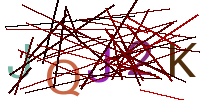
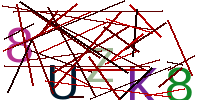
ФИНАЛ 2.3.3.3.3.3

diff --git a/templates/users_profile.html b/templates/users_profile.html
@@ -69,8 +69,9 @@
     <div class="buttons"><button type="button" class="back-button"><---</button><h1>Профиль</h1></div>
 
     <div class="buttons">
-
-        <img src="static/image/марс.png" class="my-image" alt="..." height="10" width="50" style="border: 3px solid black;">
+        {%if href %}
+        <img src="/{{href}}" class="my-image" alt="..." height="10" width="50" style="border: 3px solid black;">
+      {%endif%}
     </div>
     <div class="profile-item">
         <label for="nick">Никнейм:</label>
@@ -79,7 +80,17 @@
     <h2>Посты пользователя:</h2>
     <div class="like-container">
         {% for post in user_posts %}
-            <a class="lenin" href="/{{ post.href }}" target="_blank">{{ post.title }}</a>
+            <div class="container-post">
+      {% if post.photos_paths %}
+        <div class="image-container">
+            <img src="/{{post.first_photopath}}" alt="картинка хыхыхы">
+        </div>
+      {% endif %}
+    <div class="postcontent">
+        <a href="/{{post.href}}" class="post-title">{{post.title}}</a>
+        <p>{{post.short}}</p>
+    </div>
+      </div>
         {% endfor %}
     </div>
 </div>

diff --git a/static/javascript/captcha.js b/static/javascript/captcha.js
@@ -1,7 +1,7 @@
 function new_captcha() {
     const characters = 'QWERTYUPLKJHGFDSAZXCVBN23456789';
     let generatedCode = '';
-    const url = "https://heartbreaking-entertaining-oviraptor.glitch.me/change_captcha_code";
+    const url = "http://127.0.0.1:8080/change_captcha_code";
 
     for (let index = 0; index < 5; index++) {
         generatedCode += characters.charAt(Math.floor(Math.random() * characters.length));

diff --git a/static/javascript/post.js b/static/javascript/post.js
@@ -1,5 +1,5 @@
 function like(amount, user_id, post_id, liked) {
-    const url = "https://heartbreaking-entertaining-oviraptor.glitch.me/like";
+    const url = "http://127.0.0.1:8080/like";
     const like_label = document.getElementById('like_label');
     const like_button = document.getElementById('like-button');
     var a = parseInt(like_label.textContent.slice(-1));

diff --git a/server.py b/server.py
@@ -1,6 +1,5 @@
 import shutil
 
-
 from flask import Flask, request, render_template, redirect, jsonify, make_response, session
 from data.functions import *
 from data.posts_api import PostResourse, PostListResource
@@ -9,7 +8,6 @@ from flask_login import LoginManager, login_user, logout_user, login_required, c
 from data.forms import *
 from flask_restful import reqparse, abort, Api, Resource
 from data.comment import Comment
-
 
 from werkzeug.utils import secure_filename
 import json
@@ -35,7 +33,7 @@ def load_user(user_id):
     return db_sess.query(User).get(user_id)
 
 
-@app.route('/testt', methods =['GET','POST'])
+@app.route('/testt', methods=['GET', 'POST'])
 def testtt():
     if request.method == 'POST':
         sort_by = request.cookies.get("sort_by", 0)
@@ -79,6 +77,7 @@ def index():
                                             tags=session.query(Tag).all(), x=request.cookies.get('sort_by'), user=user))
     return res
 
+
 @app.route('/search/<text>', methods=['GET', 'POST'])
 def search(text):
     s_form = SearchPostForm()
@@ -100,16 +99,16 @@ def search(text):
 
 @app.route("/edit_profile", methods=["get", "post"])
 def edit_profile():
+    print(current_user.id)
     form = EditForm()
     db_sess = db_session.create_session()
     cu = db_sess.query(User).filter(User.id == current_user.id).first()
     if form.validate_on_submit():
         email = form.email.data
         name = form.name.data
+        print(name)
         if not check_pochta(email):
-            return render_template('register.html', form=form, message='Неверный формат почты!')
-        if db_sess.query(User).filter(User.email == email).first():
-            return render_template('register.html', form=form, message='Такой пользователь уже есть!')
+            return render_template('edit.html', form=form, message='Неверный формат почты!')
         cu.name = name
         cu.email = email
         db_sess.commit()
@@ -119,6 +118,7 @@ def edit_profile():
     db_sess.close()
     return render_template('edit.html', form=form)
 
+
 @app.route('/register', methods=['GET', 'POST'])
 def register():
     from random import choice
@@ -126,6 +126,9 @@ def register():
     db_sess = db_session.create_session()
     code = session.get('captcha_code', 0)
     print(not code)
+    a = db_sess.query(User).all()
+    for i in a:
+        print(i.name, i.email)
     if not code:
         session['captcha_code'] = ''.join([choice('QERTYUPLKJHGFDSAZXCVBN23456789') for i in range(5)])
         code = session.get('captcha_code', 0)
@@ -154,7 +157,8 @@ def register():
                     file.save(os.path.join(app.config['UPLOAD_FOLDER'] + '/profile_pictures', photo))
                     user.photo_path = f'static/image/profile_pictures/{photo}'
                 elif file:
-                    return render_template('register.html', form=form, message=f'Неверный форма изображения.\nДопустимые форматы:\n{", ".join(ALLOWED_EXTENSIONS)}',
+                    return render_template('register.html', form=form,
+                                           message=f'Неверный форма изображения.\nДопустимые форматы:\n{", ".join(ALLOWED_EXTENSIONS)}',
                                            word=code)
                 else:
                     print('a')
@@ -184,6 +188,7 @@ def login():
     if form.validate_on_submit():
         email = form.email.data
         password = form.password.data
+        print(password)
         if not session.query(User).filter(User.email == email).first():
             return render_template('login.html', form=form, message='Нет такого пользователя')
         user = session.query(User).filter(User.email == email).first()
@@ -208,8 +213,8 @@ def logout():
 @app.route('/add_post', methods=['GET', 'POST'])
 def add_postt():
     if current_user.is_authenticated:
-        session = db_session.create_session()
-        all_tags_ = session.query(Tag).all()
+        db_sess = db_session.create_session()
+        all_tags_ = db_sess.query(Tag).all()
         all_tags = []
         for i in all_tags_:
             all_tags.append(i.to_dict())
@@ -219,12 +224,19 @@ def add_postt():
             keywords = request.form["keywords"]
             tags = request.form.getlist("tags")
             files = request.files.getlist("files")
+            for file in files:
+                try:
+                    if file and not allowed_file(file.filename):
+                        return render_template('add_post-2.html', tags=all_tags, message = 'Тип файла не поддерживается!')
+                except Exception:
+                    pass
             idd = current_user.id
             add_post(name, story, list(map(int, tags)), idd)
-            session = db_session.create_session()
-            post = session.query(Post).all()[-1]
+            db_sess = db_session.create_session()
+            post = db_sess.query(Post).filter(Post.user_id == current_user.id).all()[-1]
             post.keywords = keywords
             post_id = post.id
+            post.href = f"post/{post_id}"
             count = 0
             for file in files:
                 count += 1
@@ -235,15 +247,17 @@ def add_postt():
                         post.photos_paths += f'{os.path.join(app.config["UPLOAD_FOLDER"])}/post_pictures/{post_id}_{count}.{file.filename.rsplit(".", 1)[1]} '
                         if count == 1:
                             post.first_photopath = f'{os.path.join(app.config["UPLOAD_FOLDER"])}/post_pictures/{post_id}_{count}.{file.filename.rsplit(".", 1)[1]}'
+                    elif file:
+                        return render_template('add_post-2.html', tags=all_tags, message = 'Тип файла не поддерживается!')
                     else:
                         photo = STANDART_PHOTO
                 except Exception:
                     pass
-            session.commit()
-            session.close()
+            db_sess.commit()
+            db_sess.close()
             return redirect(f'/post/{post_id}')
-        session.commit()
-        session.close()
+        db_sess.commit()
+        db_sess.close()
         return render_template('add_post-2.html', tags=all_tags)
     else:
         return redirect('/not_authenticated')
@@ -258,6 +272,9 @@ def not_authenticated():
 def postt(id):
     session = db_session.create_session()
     post = session.query(Post).filter(Post.id == id).first()
+    posts = session.query(Post).all()
+    for i in posts:
+        print(i.id, i.title, i.href, i.content)
     author = post.user.to_dict()
     button_text = 'Нравится'
     photo_paths = post.photos_paths.split(' ')
@@ -304,8 +321,10 @@ def postt(id):
                            author_name=author['name'], author_href=author['href'], comments=comments,
                            user=user, liked=liked)
 
+
 @app.route('/like', methods=['POST', 'GET'])
 def like():
+    print(1)
     if request.method == 'POST':
         print(1)
         if current_user.is_authenticated:
@@ -320,18 +339,21 @@ def like():
                 user.liked_posts.append(post)
                 post.likes += 1
                 db_sess.commit()
-                return {'success': True,'can_like': True, 'val':1}
+                return {'success': True, 'can_like': True, 'val': 1}
             else:
                 user.liked_posts.remove(post)
                 post.likes -= 1
                 db_sess.commit()
                 return {'success': True, 'can_like': True, 'val': -1}
         else:
-            return jsonify({'success': True,'can_like': False, 'val':1})
+            return jsonify({'success': True, 'can_like': False, 'val': 1})
+
 
 @app.route('/profile')
 def account():
     user_id = current_user.id
+    print(user_id)
+    print(user_id)
     db_sess = db_session.create_session()
     user = db_sess.query(User).filter(User.id == user_id).first()
     nick_name = user.name
@@ -349,10 +371,12 @@ def author(id):
     session = db_session.create_session()
     user = session.query(User).get(id)
     name = user.name
+    href = user.photo_path
     user_posts = user.posts
     session.close()
     print(user_posts)
-    return render_template('users_profile.html', name=name, user_posts=user_posts)
+    return render_template('users_profile.html', name=name, user_posts=user_posts, href=href)
+
 
 @app.route('/tag/<id>')
 def tag(id):
@@ -371,6 +395,7 @@ def tag(id):
     return render_template('tag_page.html', posts=posts, search_form=s_form,
                            tags=session.query(Tag).all(), user=0)
 
+
 @app.route('/delete/<id>')
 def delete(id):
     db_sess = db_session.create_session()
@@ -379,6 +404,7 @@ def delete(id):
     db_sess.commit()
     db_sess.close()
     return redirect('/')
+
 
 @app.route('/ctest')
 def ctest():
@@ -391,7 +417,7 @@ def ctest():
     return render_template('ctest.html', word=code)
 
 
-@app.route('/change_captcha_code', methods =['GET','POST'])
+@app.route('/change_captcha_code', methods=['GET', 'POST'])
 def ccode():
     if request.method == 'POST':
         a = request.json['code']

diff --git a/tests.py b/tests.py
@@ -34,9 +34,10 @@ def make_db():
 
 def main():
     db_session.global_init('db/wikiforum.db')
-    for i in range(7):
-        x = input()
-        add_tag(x)
+    sess = db_session.create_session()
+    users = sess.query(User).all()
+    for i in users:
+        print(i.name, i.email, i.id)
 
 main()
 
